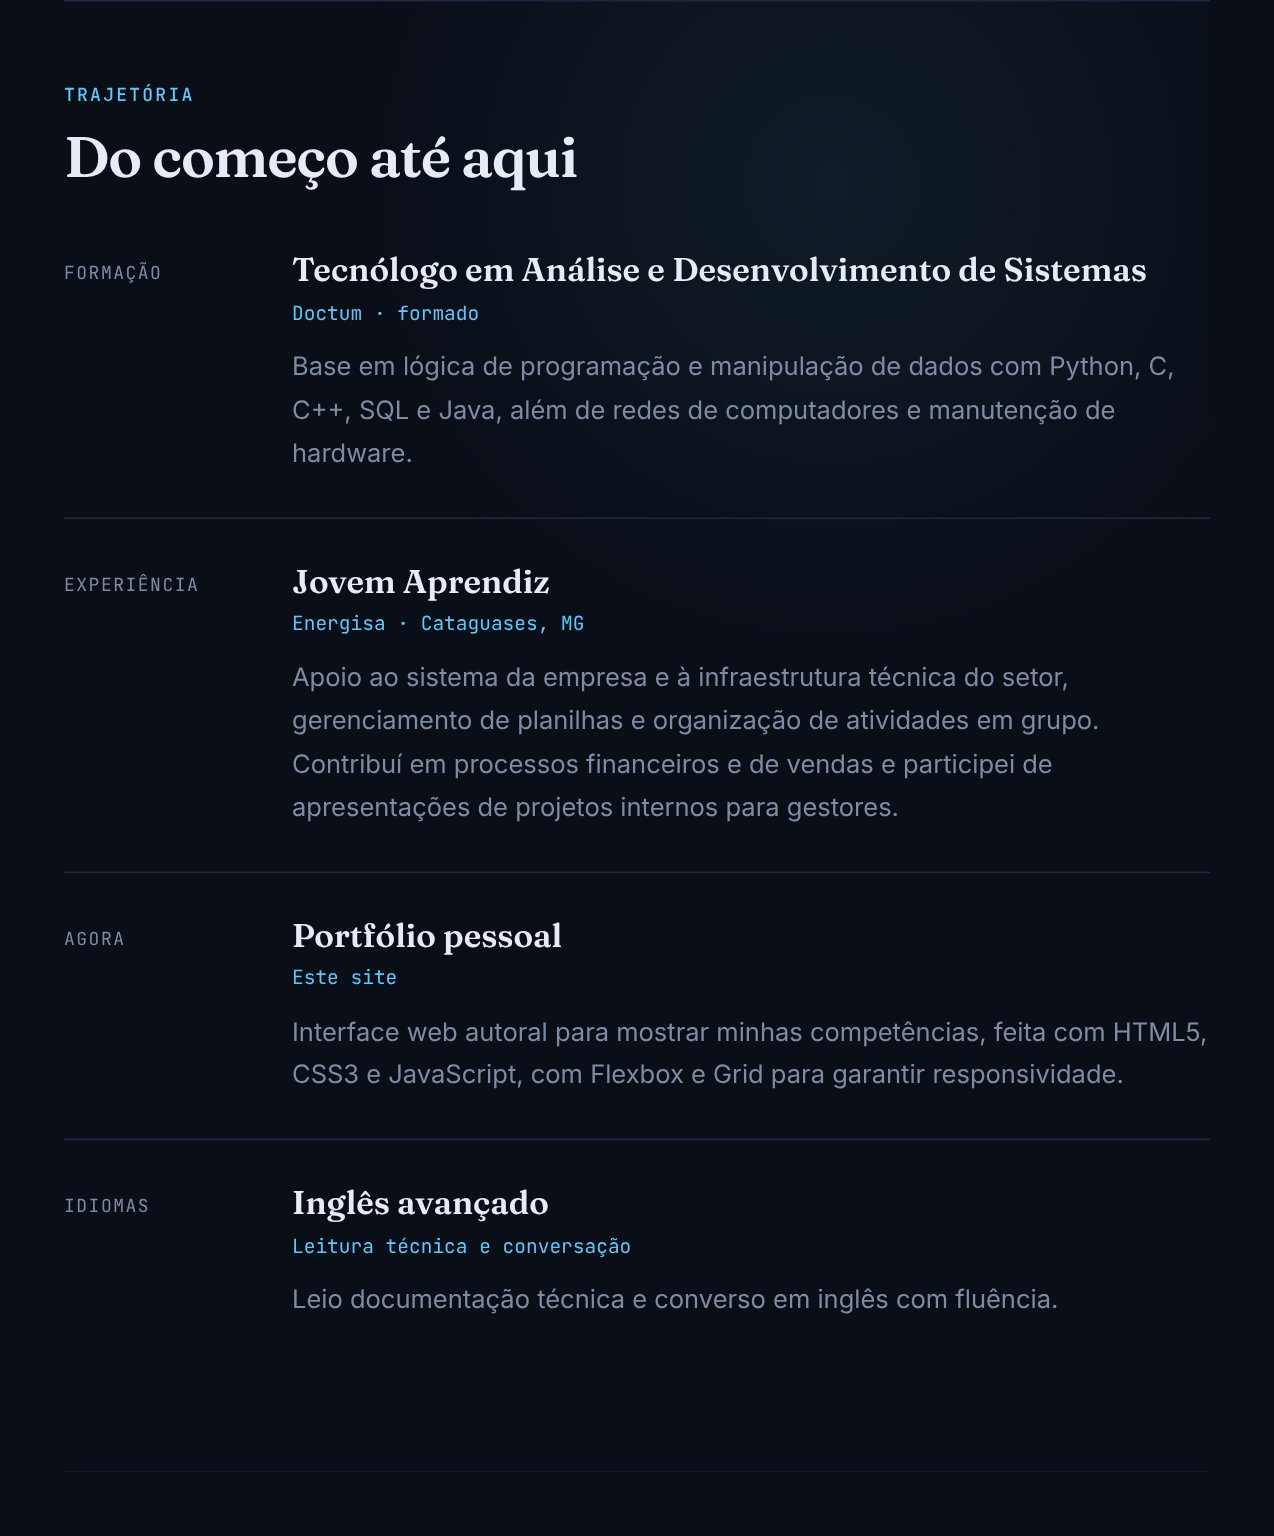
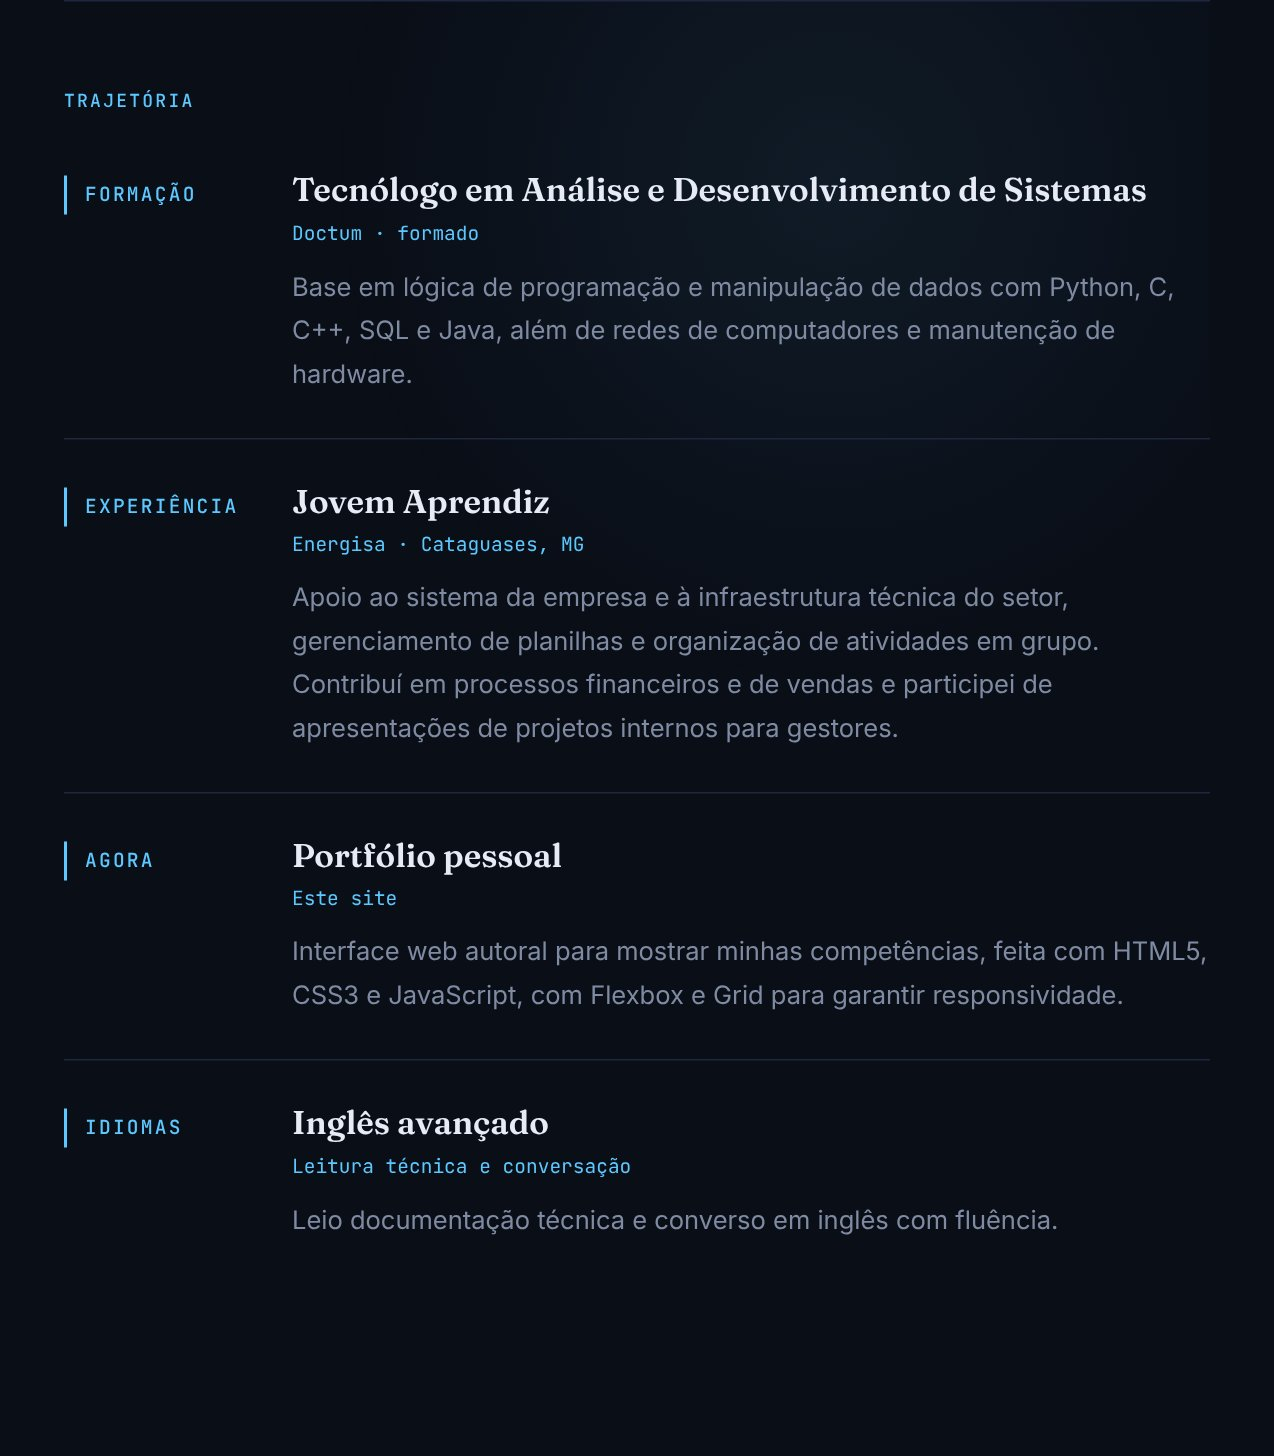
Simplifica o topo da Trajetória e destaca os rótulos

diff --git a/style.css b/style.css
@@ -436,3 +436,16 @@ h2{
   .contact-form{grid-template-columns:1fr;}
 }
 @media print{.contact-form{display:none !important;}}
+
+/* trajetória: etiqueta pequena no topo e rótulos em destaque */
+.section-tag{display:block;margin-bottom:36px;}
+#trajetoria .entry-label{
+  align-self:start;
+  margin-top:4px;
+  padding:2px 0 2px 12px;
+  border-left:2px solid var(--accent);
+  font-size:13px;
+  font-weight:500;
+  letter-spacing:1.5px;
+  color:var(--accent);
+}

diff --git a/index.html b/index.html
@@ -62,7 +62,7 @@
 
     <!-- TRAJETÓRIA -->
     <section id="trajetoria">
-      <h2><span class="tag">Trajetória</span>Do começo até aqui</h2>
+      <p class="tag section-tag">Trajetória</p>
 
       <ol class="timeline">
         <li class="entry reveal">
